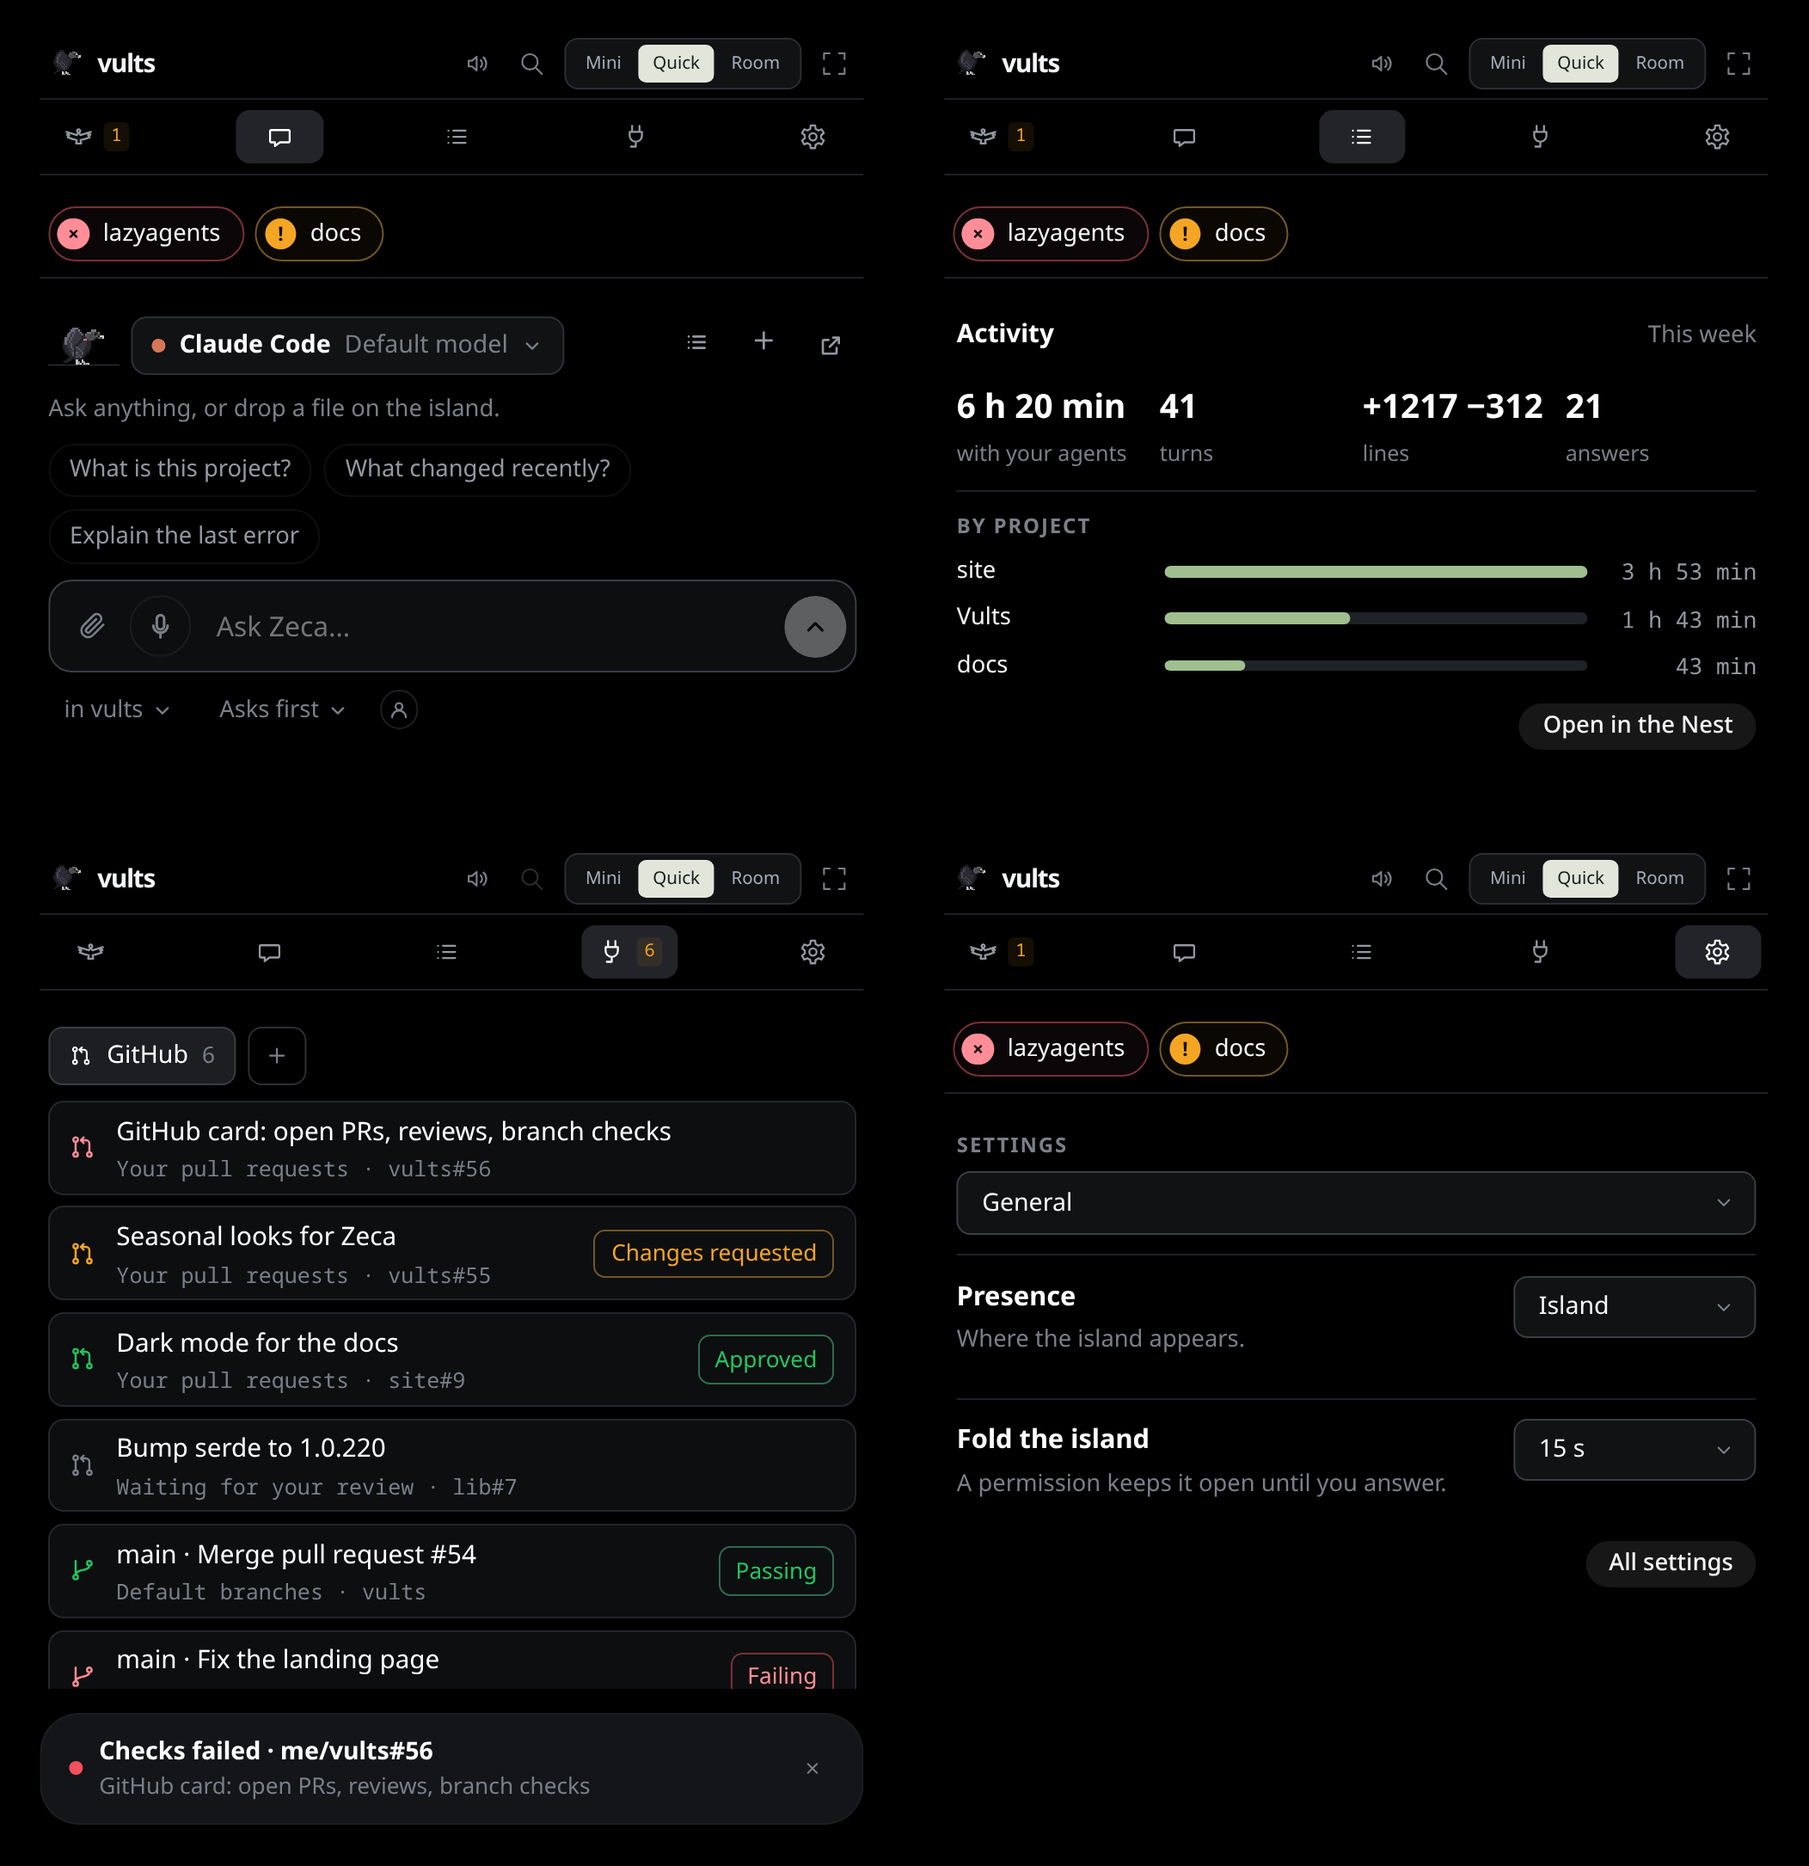
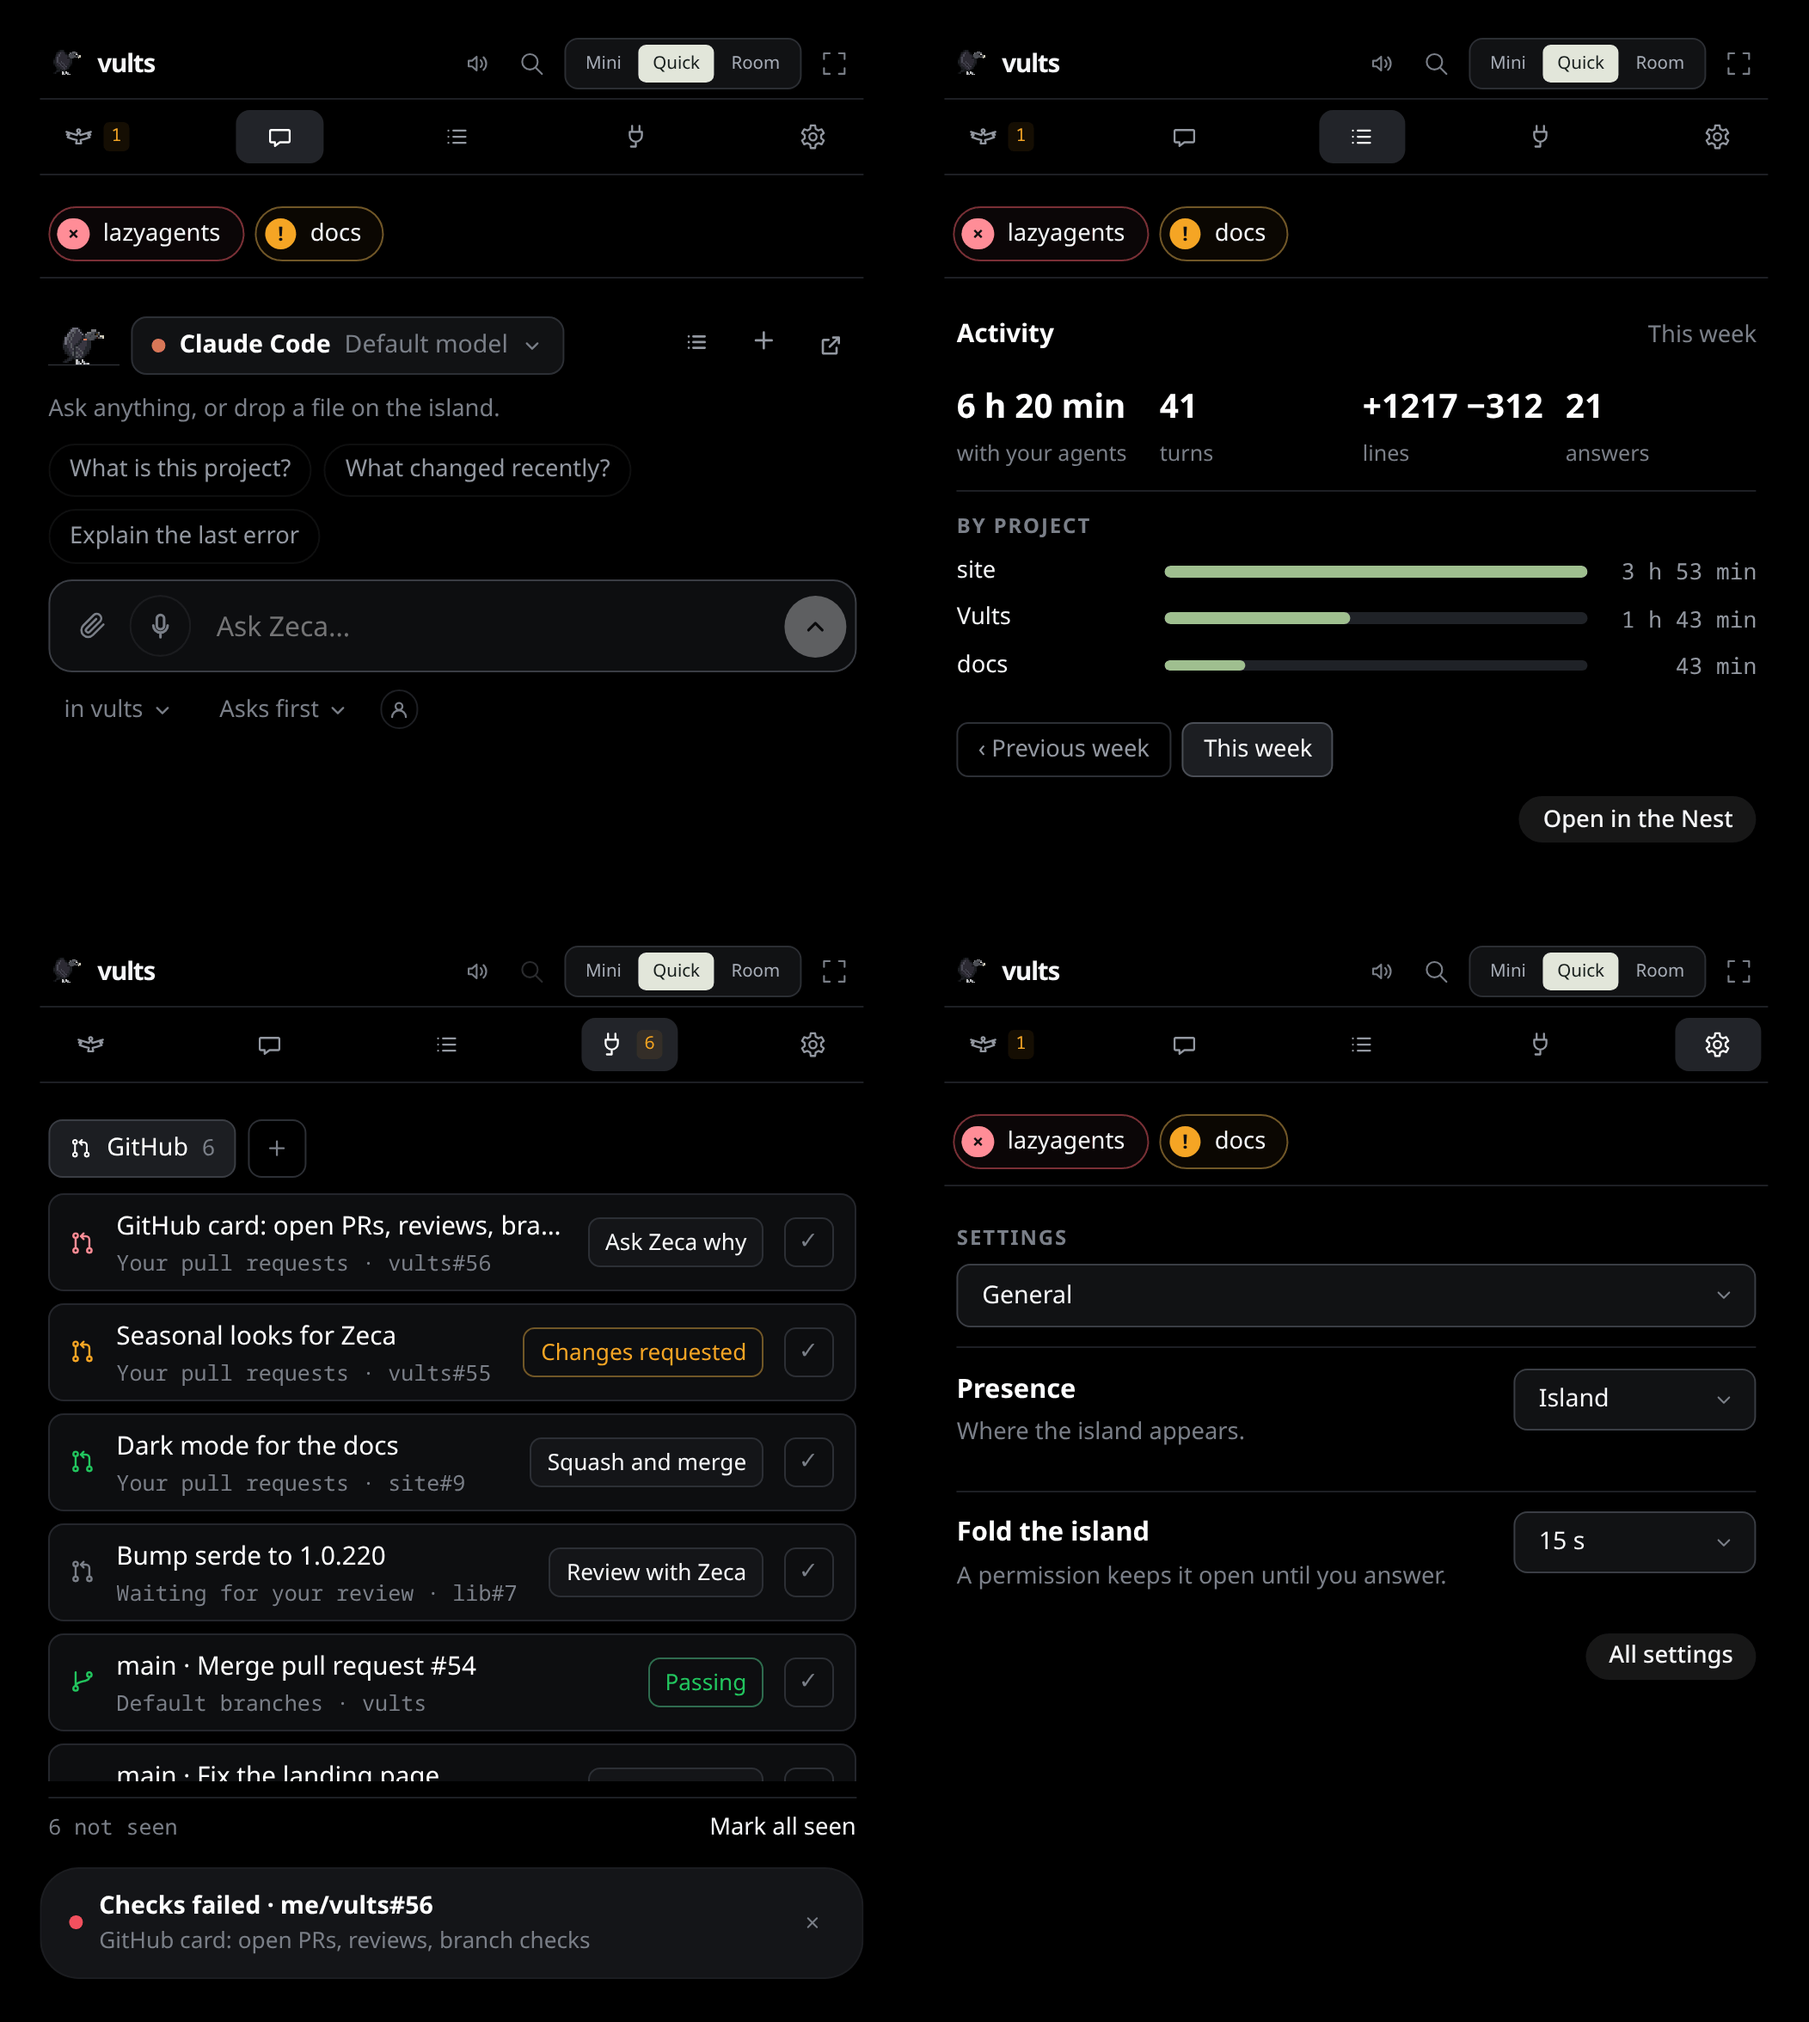
release: 0.1.8, the Living Flock UI and more agents
The version in Cargo.toml, package.json, tauri.conf.json and the AUR
PKGBUILD; the changelog's 0.1.8 section (the island's four sizes, the
Nest and Settings in the prototype's frame, Quick's tabs, Zeca's memory,
tasks and delegation, cross review, costs and a daily budget, Copilot,
Cursor, Droid and Kimi); the docs' pictures that changed taken again.

Claude-Session: https://claude.ai/code/session_01FYCciNdEutL3RFauTHRBCD

diff --git a/CHANGELOG.md b/CHANGELOG.md
@@ -4,6 +4,8 @@ What changed in each release, newest first. Each release's notes on GitHub come 
 
 ## Unreleased
 
+## 0.1.8 (2026-10-12)
+
 ### New
 
 - **Kimi Code takes tasks:** **Start with another agent…** in the Tasks tab starts Kimi Code over the Agent Client Protocol when it is installed: each write and command asks with an island card, even when your Kimi config would run everything unasked.
